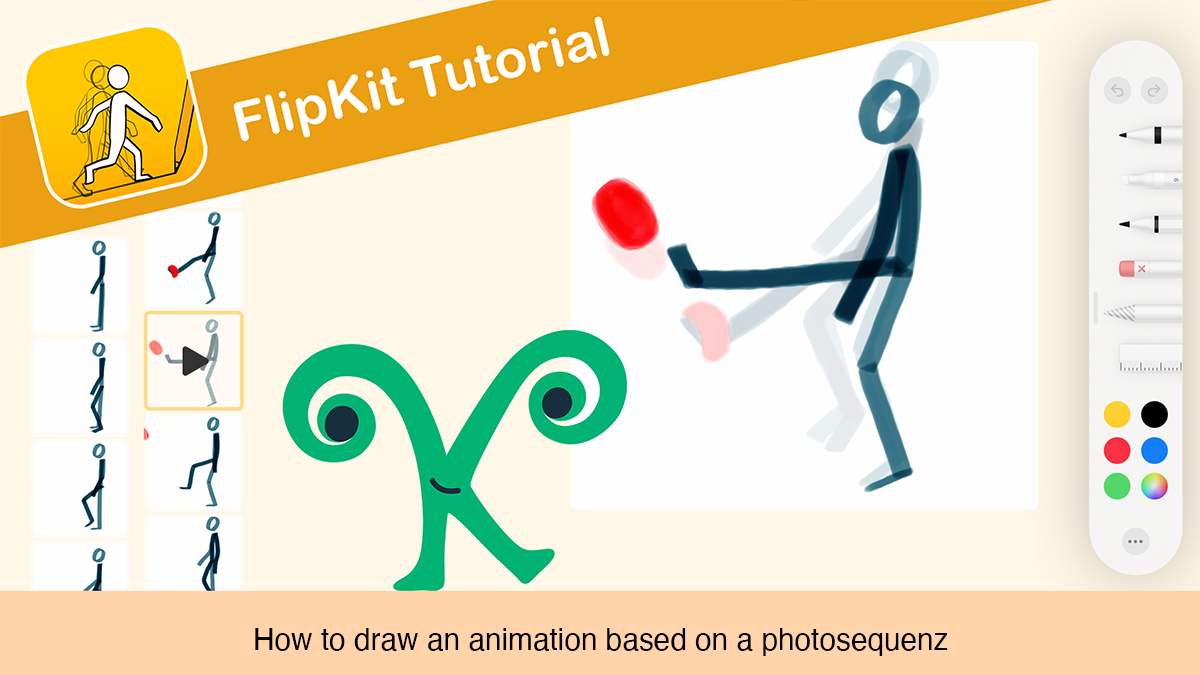
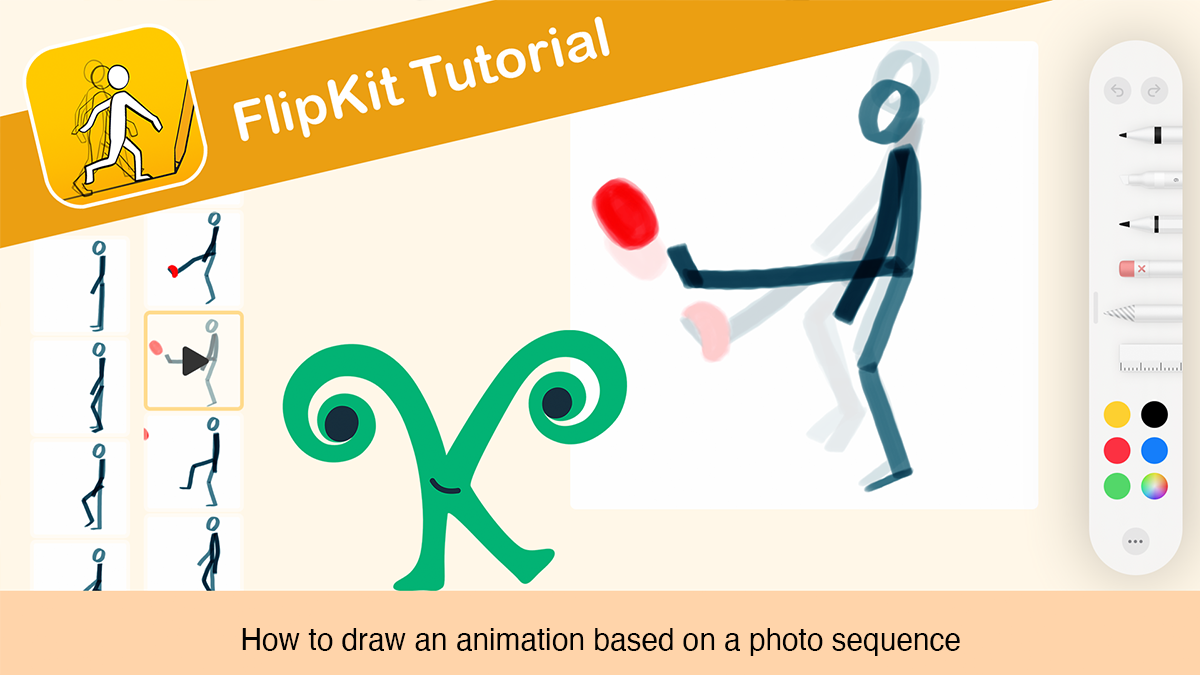
update

Changed region(s): [[0.185, 0.9333, 0.8017, 0.9644]]

diff --git a/index.html b/index.html
@@ -10,8 +10,8 @@
     <meta name="viewport" content="width=device-width, initial-scale=1.0, viewport-fit=cover">
     <link rel="shortcut icon" type="image/png" href="favicon.png">
     
-	<link rel="stylesheet" type="text/css" href="./css/bootstrap.min.css?1007">
-	<link rel="stylesheet" type="text/css" href="style.css?4521">
+	<link rel="stylesheet" type="text/css" href="./css/bootstrap.min.css?9034">
+	<link rel="stylesheet" type="text/css" href="style.css?8026">
 	<link rel="stylesheet" type="text/css" href="./css/font-awesome.min.css">
 	<link rel="stylesheet" type="text/css" href="./css/feather.min.css">
 	<link href='https://fonts.googleapis.com/css?family=Gloria+Hallelujah&display=swap&subset=latin,latin-ext' rel='stylesheet' type='text/css'>
@@ -35,7 +35,7 @@
 <div class="page-container">
     
 <!-- nav-en -->
-<div class="bloc none l-bloc" id="nav-en">
+<div class="bloc none l-bloc " id="nav-en">
 	<div class="container ">
 		<div class="row voffset-sm voffset-xs voffset voffset-md mypadding">
 			<div class="align-self-end offset-lg-0 col-lg-3 col-md-3 col-sm-3 col-3">
@@ -186,7 +186,7 @@
 <!-- pixli END -->
 
 <!-- tutorials -->
-<div class="bloc none bgc-lavender-web-2 l-bloc " id="tutorials">
+<div class="bloc none bgc-lavender-web-2 l-bloc" id="tutorials">
 	<div class="container bloc-md">
 		<div class="row voffset-clear-md voffset-clear-xs mypadding">
 			<div class="col">
@@ -216,7 +216,7 @@
 							<div class="carousel-caption">
 							</div>
 						</div>
-						<div class="carousel-item" onclick="location.href='https://youtu.be/VSBxaWgxKG8'">
+						<div class="carousel-item" onclick="location.href='https://youtu.be/aB8fmrNcO7o'">
 							<img alt="slide 2" class="d-inline-block w-100" src="img/FlipKitTutorial_img_en.png" />
 							<div class="carousel-caption">
 							</div>
@@ -229,7 +229,7 @@
 					<a class="link-style" href="snow_animation_en.html">How to make a stop-motion snow animation</a> <br>
 				</p>
 				<p class="mg-clear">
-					<a class="link-style" href="https://youtu.be/VSBxaWgxKG8">How to draw an animation based on a photosequence</a><br>
+					<a class="link-style" href="https://youtu.be/aB8fmrNcO7o">How to draw an animation based on a photo sequence</a><br>
 				</p>
 			</div>
 		</div>
@@ -320,9 +320,9 @@
 <!-- Main container END -->
     
 
-<script src="./js/jquery-3.5.1.min.js?3874"></script>
-<script src="./js/bootstrap.bundle.min.js?5061"></script>
-<script src="./js/blocs.min.js?4070"></script>
+<script src="./js/jquery-3.5.1.min.js?9192"></script>
+<script src="./js/bootstrap.bundle.min.js?3709"></script>
+<script src="./js/blocs.min.js?6314"></script>
 <script src="./js/lazysizes.min.js" defer></script>
 <!-- Additional JS END -->
 

diff --git a/images.html b/images.html
@@ -7,8 +7,8 @@
     <meta name="viewport" content="width=device-width, initial-scale=1.0, viewport-fit=cover">
     <link rel="shortcut icon" type="image/png" href="favicon.png">
     
-	<link rel="stylesheet" type="text/css" href="./css/bootstrap.min.css?8998">
-	<link rel="stylesheet" type="text/css" href="style.css?3971">
+	<link rel="stylesheet" type="text/css" href="./css/bootstrap.min.css?577">
+	<link rel="stylesheet" type="text/css" href="style.css?3142">
 	<link rel="stylesheet" type="text/css" href="./css/font-awesome.min.css">
 	<link rel="stylesheet" type="text/css" href="./css/feather.min.css">
 	<link href='https://fonts.googleapis.com/css?family=Gloria+Hallelujah&display=swap&subset=latin,latin-ext' rel='stylesheet' type='text/css'>
@@ -94,9 +94,9 @@
 <!-- Main container END -->
     
 
-<script src="./js/jquery-3.5.1.min.js?3874"></script>
-<script src="./js/bootstrap.bundle.min.js?5061"></script>
-<script src="./js/blocs.min.js?4070"></script>
+<script src="./js/jquery-3.5.1.min.js?9192"></script>
+<script src="./js/bootstrap.bundle.min.js?3709"></script>
+<script src="./js/blocs.min.js?6314"></script>
 <script src="./js/jquery.touchSwipe.min.js" defer></script>
 <script src="./js/lazysizes.min.js" defer></script>
 <!-- Additional JS END -->

diff --git a/home_de.html b/home_de.html
@@ -10,8 +10,8 @@
     <meta name="viewport" content="width=device-width, initial-scale=1.0, viewport-fit=cover">
     <link rel="shortcut icon" type="image/png" href="favicon.png">
     
-	<link rel="stylesheet" type="text/css" href="./css/bootstrap.min.css?3149">
-	<link rel="stylesheet" type="text/css" href="style.css?3992">
+	<link rel="stylesheet" type="text/css" href="./css/bootstrap.min.css?4193">
+	<link rel="stylesheet" type="text/css" href="style.css?8700">
 	<link rel="stylesheet" type="text/css" href="./css/font-awesome.min.css">
 	<link rel="stylesheet" type="text/css" href="./css/feather.min.css">
 	<link href='https://fonts.googleapis.com/css?family=Gloria+Hallelujah&display=swap&subset=latin,latin-ext' rel='stylesheet' type='text/css'>
@@ -320,9 +320,9 @@
 <!-- Main container END -->
     
 
-<script src="./js/jquery-3.5.1.min.js?3874"></script>
-<script src="./js/bootstrap.bundle.min.js?5061"></script>
-<script src="./js/blocs.min.js?4070"></script>
+<script src="./js/jquery-3.5.1.min.js?9192"></script>
+<script src="./js/bootstrap.bundle.min.js?3709"></script>
+<script src="./js/blocs.min.js?6314"></script>
 <script src="./js/lazysizes.min.js" defer></script>
 <!-- Additional JS END -->
 

diff --git a/flipkit_press_de.html b/flipkit_press_de.html
@@ -7,8 +7,8 @@
     <meta name="viewport" content="width=device-width, initial-scale=1.0, viewport-fit=cover">
     <link rel="shortcut icon" type="image/png" href="favicon.png">
     
-	<link rel="stylesheet" type="text/css" href="./css/bootstrap.min.css?9909">
-	<link rel="stylesheet" type="text/css" href="style.css?9150">
+	<link rel="stylesheet" type="text/css" href="./css/bootstrap.min.css?6245">
+	<link rel="stylesheet" type="text/css" href="style.css?7991">
 	<link rel="stylesheet" type="text/css" href="./css/font-awesome.min.css">
 	<link rel="stylesheet" type="text/css" href="./css/feather.min.css">
 	<link href='https://fonts.googleapis.com/css?family=Gloria+Hallelujah&display=swap&subset=latin,latin-ext' rel='stylesheet' type='text/css'>
@@ -278,9 +278,9 @@
 <!-- Main container END -->
     
 
-<script src="./js/jquery-3.5.1.min.js?3874"></script>
-<script src="./js/bootstrap.bundle.min.js?5061"></script>
-<script src="./js/blocs.min.js?4070"></script>
+<script src="./js/jquery-3.5.1.min.js?9192"></script>
+<script src="./js/bootstrap.bundle.min.js?3709"></script>
+<script src="./js/blocs.min.js?6314"></script>
 <script src="./js/lazysizes.min.js" defer></script>
 <!-- Additional JS END -->
 

diff --git a/flipkit_press_en.html b/flipkit_press_en.html
@@ -7,8 +7,8 @@
     <meta name="viewport" content="width=device-width, initial-scale=1.0, viewport-fit=cover">
     <link rel="shortcut icon" type="image/png" href="favicon.png">
     
-	<link rel="stylesheet" type="text/css" href="./css/bootstrap.min.css?8910">
-	<link rel="stylesheet" type="text/css" href="style.css?8961">
+	<link rel="stylesheet" type="text/css" href="./css/bootstrap.min.css?1819">
+	<link rel="stylesheet" type="text/css" href="style.css?8508">
 	<link rel="stylesheet" type="text/css" href="./css/font-awesome.min.css">
 	<link rel="stylesheet" type="text/css" href="./css/feather.min.css">
 	<link href='https://fonts.googleapis.com/css?family=Gloria+Hallelujah&display=swap&subset=latin,latin-ext' rel='stylesheet' type='text/css'>
@@ -278,9 +278,9 @@
 <!-- Main container END -->
     
 
-<script src="./js/jquery-3.5.1.min.js?3874"></script>
-<script src="./js/bootstrap.bundle.min.js?5061"></script>
-<script src="./js/blocs.min.js?4070"></script>
+<script src="./js/jquery-3.5.1.min.js?9192"></script>
+<script src="./js/bootstrap.bundle.min.js?3709"></script>
+<script src="./js/blocs.min.js?6314"></script>
 <script src="./js/lazysizes.min.js" defer></script>
 <!-- Additional JS END -->
 

diff --git a/privacy_apps_de.html b/privacy_apps_de.html
@@ -7,8 +7,8 @@
     <meta name="viewport" content="width=device-width, initial-scale=1.0, viewport-fit=cover">
     <link rel="shortcut icon" type="image/png" href="favicon.png">
     
-	<link rel="stylesheet" type="text/css" href="./css/bootstrap.min.css?2205">
-	<link rel="stylesheet" type="text/css" href="style.css?6565">
+	<link rel="stylesheet" type="text/css" href="./css/bootstrap.min.css?3512">
+	<link rel="stylesheet" type="text/css" href="style.css?7024">
 	<link rel="stylesheet" type="text/css" href="./css/font-awesome.min.css">
 	<link rel="stylesheet" type="text/css" href="./css/feather.min.css">
 	<link href='https://fonts.googleapis.com/css?family=Gloria+Hallelujah&display=swap&subset=latin,latin-ext' rel='stylesheet' type='text/css'>
@@ -101,9 +101,9 @@
 <!-- Main container END -->
     
 
-<script src="./js/jquery-3.5.1.min.js?3874"></script>
-<script src="./js/bootstrap.bundle.min.js?5061"></script>
-<script src="./js/blocs.min.js?4070"></script>
+<script src="./js/jquery-3.5.1.min.js?9192"></script>
+<script src="./js/bootstrap.bundle.min.js?3709"></script>
+<script src="./js/blocs.min.js?6314"></script>
 <script src="./js/lazysizes.min.js" defer></script>
 <!-- Additional JS END -->
 

diff --git a/privacy_apps_en.html b/privacy_apps_en.html
@@ -7,8 +7,8 @@
     <meta name="viewport" content="width=device-width, initial-scale=1.0, viewport-fit=cover">
     <link rel="shortcut icon" type="image/png" href="favicon.png">
     
-	<link rel="stylesheet" type="text/css" href="./css/bootstrap.min.css?3090">
-	<link rel="stylesheet" type="text/css" href="style.css?2598">
+	<link rel="stylesheet" type="text/css" href="./css/bootstrap.min.css?7578">
+	<link rel="stylesheet" type="text/css" href="style.css?3282">
 	<link rel="stylesheet" type="text/css" href="./css/font-awesome.min.css">
 	<link rel="stylesheet" type="text/css" href="./css/feather.min.css">
 	<link href='https://fonts.googleapis.com/css?family=Gloria+Hallelujah&display=swap&subset=latin,latin-ext' rel='stylesheet' type='text/css'>
@@ -101,9 +101,9 @@
 <!-- Main container END -->
     
 
-<script src="./js/jquery-3.5.1.min.js?3874"></script>
-<script src="./js/bootstrap.bundle.min.js?5061"></script>
-<script src="./js/blocs.min.js?4070"></script>
+<script src="./js/jquery-3.5.1.min.js?9192"></script>
+<script src="./js/bootstrap.bundle.min.js?3709"></script>
+<script src="./js/blocs.min.js?6314"></script>
 <script src="./js/lazysizes.min.js" defer></script>
 <!-- Additional JS END -->
 

diff --git a/privacy_pixli_de.html b/privacy_pixli_de.html
@@ -7,8 +7,8 @@
     <meta name="viewport" content="width=device-width, initial-scale=1.0, viewport-fit=cover">
     <link rel="shortcut icon" type="image/png" href="favicon.png">
     
-	<link rel="stylesheet" type="text/css" href="./css/bootstrap.min.css?8864">
-	<link rel="stylesheet" type="text/css" href="style.css?4149">
+	<link rel="stylesheet" type="text/css" href="./css/bootstrap.min.css?2806">
+	<link rel="stylesheet" type="text/css" href="style.css?1853">
 	<link rel="stylesheet" type="text/css" href="./css/font-awesome.min.css">
 	<link rel="stylesheet" type="text/css" href="./css/feather.min.css">
 	<link href='https://fonts.googleapis.com/css?family=Gloria+Hallelujah&display=swap&subset=latin,latin-ext' rel='stylesheet' type='text/css'>
@@ -101,9 +101,9 @@
 <!-- Main container END -->
     
 
-<script src="./js/jquery-3.5.1.min.js?3874"></script>
-<script src="./js/bootstrap.bundle.min.js?5061"></script>
-<script src="./js/blocs.min.js?4070"></script>
+<script src="./js/jquery-3.5.1.min.js?9192"></script>
+<script src="./js/bootstrap.bundle.min.js?3709"></script>
+<script src="./js/blocs.min.js?6314"></script>
 <script src="./js/lazysizes.min.js" defer></script>
 <!-- Additional JS END -->
 

diff --git a/privacy_pixli_en.html b/privacy_pixli_en.html
@@ -7,8 +7,8 @@
     <meta name="viewport" content="width=device-width, initial-scale=1.0, viewport-fit=cover">
     <link rel="shortcut icon" type="image/png" href="favicon.png">
     
-	<link rel="stylesheet" type="text/css" href="./css/bootstrap.min.css?3602">
-	<link rel="stylesheet" type="text/css" href="style.css?4598">
+	<link rel="stylesheet" type="text/css" href="./css/bootstrap.min.css?3337">
+	<link rel="stylesheet" type="text/css" href="style.css?2593">
 	<link rel="stylesheet" type="text/css" href="./css/font-awesome.min.css">
 	<link rel="stylesheet" type="text/css" href="./css/feather.min.css">
 	<link href='https://fonts.googleapis.com/css?family=Gloria+Hallelujah&display=swap&subset=latin,latin-ext' rel='stylesheet' type='text/css'>
@@ -101,9 +101,9 @@
 <!-- Main container END -->
     
 
-<script src="./js/jquery-3.5.1.min.js?3874"></script>
-<script src="./js/bootstrap.bundle.min.js?5061"></script>
-<script src="./js/blocs.min.js?4070"></script>
+<script src="./js/jquery-3.5.1.min.js?9192"></script>
+<script src="./js/bootstrap.bundle.min.js?3709"></script>
+<script src="./js/blocs.min.js?6314"></script>
 <script src="./js/lazysizes.min.js" defer></script>
 <!-- Additional JS END -->
 

diff --git a/privacy_tinkado_en.html b/privacy_tinkado_en.html
@@ -7,8 +7,8 @@
     <meta name="viewport" content="width=device-width, initial-scale=1.0, viewport-fit=cover">
     <link rel="shortcut icon" type="image/png" href="favicon.png">
     
-	<link rel="stylesheet" type="text/css" href="./css/bootstrap.min.css?2112">
-	<link rel="stylesheet" type="text/css" href="style.css?9396">
+	<link rel="stylesheet" type="text/css" href="./css/bootstrap.min.css?7031">
+	<link rel="stylesheet" type="text/css" href="style.css?4739">
 	<link rel="stylesheet" type="text/css" href="./css/font-awesome.min.css">
 	<link rel="stylesheet" type="text/css" href="./css/feather.min.css">
 	<link href='https://fonts.googleapis.com/css?family=Gloria+Hallelujah&display=swap&subset=latin,latin-ext' rel='stylesheet' type='text/css'>
@@ -101,9 +101,9 @@
 <!-- Main container END -->
     
 
-<script src="./js/jquery-3.5.1.min.js?3874"></script>
-<script src="./js/bootstrap.bundle.min.js?5061"></script>
-<script src="./js/blocs.min.js?4070"></script>
+<script src="./js/jquery-3.5.1.min.js?9192"></script>
+<script src="./js/bootstrap.bundle.min.js?3709"></script>
+<script src="./js/blocs.min.js?6314"></script>
 <script src="./js/lazysizes.min.js" defer></script>
 <!-- Additional JS END -->
 

diff --git a/snow_animation_de.html b/snow_animation_de.html
@@ -7,8 +7,8 @@
     <meta name="viewport" content="width=device-width, initial-scale=1.0, viewport-fit=cover">
     <link rel="shortcut icon" type="image/png" href="favicon.png">
     
-	<link rel="stylesheet" type="text/css" href="./css/bootstrap.min.css?2375">
-	<link rel="stylesheet" type="text/css" href="style.css?5863">
+	<link rel="stylesheet" type="text/css" href="./css/bootstrap.min.css?6320">
+	<link rel="stylesheet" type="text/css" href="style.css?8398">
 	<link rel="stylesheet" type="text/css" href="./css/font-awesome.min.css">
 	<link rel="stylesheet" type="text/css" href="./css/feather.min.css">
 	<link href='https://fonts.googleapis.com/css?family=Gloria+Hallelujah&display=swap&subset=latin,latin-ext' rel='stylesheet' type='text/css'>
@@ -169,9 +169,9 @@
 <!-- Main container END -->
     
 
-<script src="./js/jquery-3.5.1.min.js?3874"></script>
-<script src="./js/bootstrap.bundle.min.js?5061"></script>
-<script src="./js/blocs.min.js?4070"></script>
+<script src="./js/jquery-3.5.1.min.js?9192"></script>
+<script src="./js/bootstrap.bundle.min.js?3709"></script>
+<script src="./js/blocs.min.js?6314"></script>
 <script src="./js/lazysizes.min.js" defer></script>
 <!-- Additional JS END -->
 

diff --git a/privacy_tinkado_de.html b/privacy_tinkado_de.html
@@ -7,8 +7,8 @@
     <meta name="viewport" content="width=device-width, initial-scale=1.0, viewport-fit=cover">
     <link rel="shortcut icon" type="image/png" href="favicon.png">
     
-	<link rel="stylesheet" type="text/css" href="./css/bootstrap.min.css?4610">
-	<link rel="stylesheet" type="text/css" href="style.css?5917">
+	<link rel="stylesheet" type="text/css" href="./css/bootstrap.min.css?3685">
+	<link rel="stylesheet" type="text/css" href="style.css?351">
 	<link rel="stylesheet" type="text/css" href="./css/font-awesome.min.css">
 	<link rel="stylesheet" type="text/css" href="./css/feather.min.css">
 	<link href='https://fonts.googleapis.com/css?family=Gloria+Hallelujah&display=swap&subset=latin,latin-ext' rel='stylesheet' type='text/css'>
@@ -101,9 +101,9 @@
 <!-- Main container END -->
     
 
-<script src="./js/jquery-3.5.1.min.js?3874"></script>
-<script src="./js/bootstrap.bundle.min.js?5061"></script>
-<script src="./js/blocs.min.js?4070"></script>
+<script src="./js/jquery-3.5.1.min.js?9192"></script>
+<script src="./js/bootstrap.bundle.min.js?3709"></script>
+<script src="./js/blocs.min.js?6314"></script>
 <script src="./js/lazysizes.min.js" defer></script>
 <!-- Additional JS END -->
 
